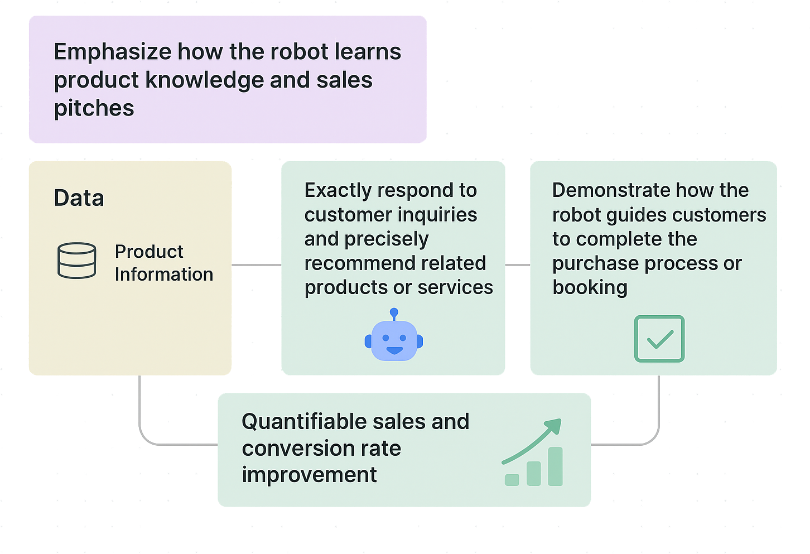
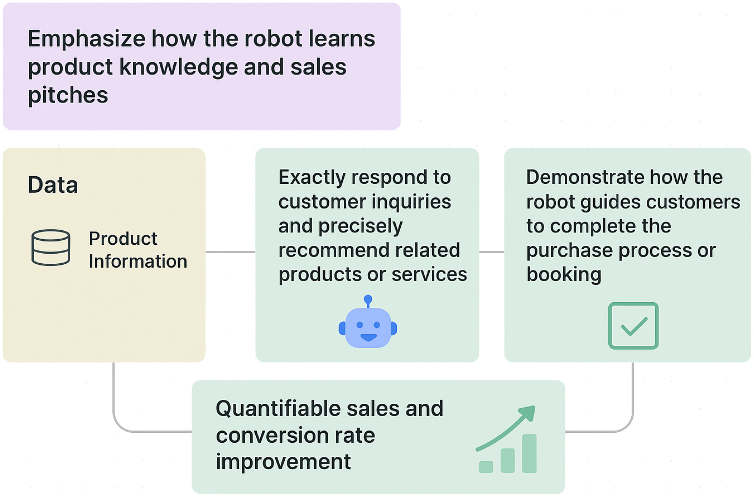
sherry 後台products新增 連結&開新分頁 功能 & media新增 篩選資料夾 功能

Changed region(s): [[0.0, 0.0, 1.0, 0.996]]

diff --git a/resources/views/livewire/pages/aiing.blade.php b/resources/views/livewire/pages/aiing.blade.php
@@ -107,16 +107,17 @@
 
     {{-- 業務DNA --}}
     <section class="text-gray-600 body-font bg-[#EBF0FE]">
-        <div class="max-w-[1600px] mx-auto px-5 py-24 lg:px-32 flex md:flex-row flex-col items-center justify-center gap-8">
+        <div class="max-w-[1600px] mx-auto px-5 py-40 lg:px-32 flex md:flex-row flex-col items-center justify-center gap-14">
             <div class="md:w-1/2 flex flex-col md:items-start md:text-left mb-16 md:mb-0 items-center text-center max-w-lg">
-                    <h2 class="title-font sm:text-3xl text-2xl mb-8 font-black text-gray-900 font-sans">深入您的業務DNA，打造最懂您的 AI 聊天機器人</h2>
-                    <p class="mb-20 leading-relaxed text-lg">將 AI 模型和技術整合到您的網站或雲端系統中，從需求分析、數據準備、模型訓練，提供完整的 AI 聊天應用解決方案s</p>
+                    <h2 class="title-font sm:text-3xl text-2xl mb-8 font-black text-gray-900">深入您的業務DNA，打造最懂您的 AI 聊天機器人</h2>
+                    <p class="mb-20 font-medium text-lg">將 AI 模型和技術整合到您的網站或雲端系統中，從需求分析、數據準備、模型訓練，提供完整的 AI 聊天應用解決方案s</p>
                     <div class="flex justify-center">
                         <button
                             class="inline-flex text-white bg-[#9BBF3E] rounded-full border-0 py-2 px-10 focus:outline-none hover:bg-[#8cb02f] text-lg">更多訊息</button>
                     </div>
             </div>
-            <div class="lg:max-w-lg lg:w-full md:w-1/2 w-5/6">
+            {{-- <div class="lg:max-w-lg lg:w-full md:w-1/2 w-5/6"> --}}
+            <div class="md:w-7/12 w-5/6">
                 <img class="object-cover object-center rounded" alt="hero" src="{{ asset('emphasize.png') }}" alt="">
             </div>
         </div>
@@ -126,7 +127,7 @@
     <section class="body-font bg-[#0D256D]">
         <div class="max-w-[1600px] mx-auto px-5 py-24 lg:px-32">
             <div class="">
-                <div class="max-w-xl mb-6 sm:mx-auto sm:text-center md:mb-10 lg:max-w-2xl">
+                <div class="max-w-lg mb-6 sm:mx-auto text-center md:mb-10 lg:max-w-xl">
                     <h2 class="text-white font-black mb-6 text-3xl">
                         可量化的商業價值
                     </h2>
@@ -135,20 +136,26 @@
                     </p>
                 </div>
                 <div class="grid gap-6 row-gap-5 lg:grid-cols-3">
-                    <div>
-                        <img class="object-cover w-full h-64 mb-6 rounded shadow-lg lg:h-80 xl:h-96"
-                            src="https://images.pexels.com/photos/3184311/pexels-photo-3184311.jpeg?auto=compress&amp;cs=tinysrgb&amp;dpr=2&amp;w=500"
-                            alt="" />
+                    <div class="bg-white p-6 rounded-xl shadow-lg">
+                        <h3 class="font-bold text-center mb-4">客服成本結構變化</h3>
+                        <div class="relative w-full h-[400px] max-h-[400px] mr-auto ml-auto">
+                            <canvas id="costChart"></canvas>
+                        </div>
+                        <p class="text-sm text-slate-600 mt-4 text-center">透過 AI 協同作業，大幅降低重複性問題的人力成本，讓人力專注於更高價值的客戶服務。</p>
                     </div>
-                    <div>
-                        <img class="object-cover w-full h-64 mb-6 rounded shadow-lg lg:h-80 xl:h-96"
-                            src="https://images.pexels.com/photos/3184338/pexels-photo-3184338.jpeg?auto=compress&amp;cs=tinysrgb&amp;dpr=2&amp;h=750&amp;w=1260"
-                            alt="" />
+                    <div class="bg-white p-6 rounded-xl shadow-lg">
+                        <h3 class="font-bold text-center mb-4">客戶互動渠道轉換率</h3>
+                        <div class="relative w-full h-[400px] max-h-[400px] mr-auto ml-auto">
+                            <canvas id="conversionChart"></canvas>
+                        </div>
+                        <p class="text-sm text-slate-600 mt-4 text-center">GPT Assistant 提供 24/7 即時、個人化的互動，有效提升訪客轉換為潛在客戶或完成購買的機率。</p>
                     </div>
-                    <div>
-                        <img class="object-cover w-full h-64 mb-6 rounded shadow-lg lg:h-80 xl:h-96"
-                            src="https://images.pexels.com/photos/3184339/pexels-photo-3184339.jpeg?auto=compress&amp;cs=tinysrgb&amp;dpr=2&amp;h=750&amp;w=1260"
-                            alt="" />
+                    <div class="bg-white p-6 rounded-xl shadow-lg md:col-span-2 lg:col-span-1">
+                        <h3 class="font-bold text-center mb-4">導入後月銷售額增長趨勢</h3>
+                        <div class="relative w-full h-[400px] max-h-[400px] mr-auto ml-auto">
+                            <canvas id="salesChart"></canvas>
+                        </div>
+                        <p class="text-sm text-slate-600 mt-4 text-center">智能推薦與不間斷的銷售引導，直接反映在持續上揚的月銷售額曲線上。</p>
                     </div>
                 </div>
             </div>
@@ -325,3 +332,170 @@
         </div>
     </footer>
 </div>
+
+@push('scripts')
+    <script src="https://cdn.jsdelivr.net/npm/chart.js"></script>
+    <script>
+        document.addEventListener('DOMContentLoaded', function () {
+
+            // Helper function for label wrapping
+            const wrapLabel = (label, maxLength = 16) => {
+                if (label.length <= maxLength) {
+                    return label;
+                }
+                const words = label.split(' ');
+                const lines = [];
+                let currentLine = '';
+                for (const word of words) {
+                    if ((currentLine + ' ' + word).length > maxLength && currentLine.length > 0) {
+                        lines.push(currentLine);
+                        currentLine = word;
+                    } else {
+                        if (currentLine.length > 0) {
+                            currentLine += ' ' + word;
+                        } else {
+                            currentLine = word;
+                        }
+                    }
+                }
+                lines.push(currentLine);
+                return lines;
+            };
+
+            // Shared tooltip configuration
+            const tooltipConfig = {
+                plugins: {
+                    tooltip: {
+                        callbacks: {
+                            title: function (tooltipItems) {
+                                const item = tooltipItems[0];
+                                let label = item.chart.data.labels[item.dataIndex];
+                                if (Array.isArray(label)) {
+                                    return label.join(' ');
+                                }
+                                return label;
+                            }
+                        }
+                    }
+                }
+            };
+
+            // Chart 1: Cost Structure Donut Chart
+            const costCtx = document.getElementById('costChart').getContext('2d');
+            new Chart(costCtx, {
+                type: 'doughnut',
+                data: {
+                    labels: ['人力成本', 'AI 系統與維護'],
+                    datasets: [{
+                        label: '導入前',
+                        data: [95, 5],
+                        backgroundColor: ['#118AB2', '#06D6A0'],
+                        borderColor: '#ffffff',
+                        borderWidth: 2,
+                    }, {
+                        label: '導入後',
+                        data: [60, 40],
+                        backgroundColor: ['#118AB2', '#06D6A0'],
+                        borderColor: '#ffffff',
+                        borderWidth: 2,
+                        hidden: true
+                    }]
+                },
+                options: {
+                    responsive: true,
+                    maintainAspectRatio: false,
+                    plugins: {
+                        ...tooltipConfig.plugins,
+                        legend: {
+                            position: 'top',
+                        },
+                        title: {
+                            display: true,
+                            text: '導入 AI 前後成本比較',
+                        }
+                    }
+                }
+            });
+
+            // Chart 2: Conversion Rate Bar Chart
+            const conversionCtx = document.getElementById('conversionChart').getContext('2d');
+            new Chart(conversionCtx, {
+                type: 'bar',
+                data: {
+                    labels: ['傳統線上客服', '電子郵件行銷', wrapLabel('GPT Assistants 智能助理')],
+                    datasets: [{
+                        label: '轉換率 (%)',
+                        data: [2.5, 1.8, 8.5],
+                        backgroundColor: [
+                            '#FFD166',
+                            '#118AB2',
+                            '#06D6A0'
+                        ],
+                        borderColor: [
+                            '#FFD166',
+                            '#118AB2',
+                            '#06D6A0'
+                        ],
+                        borderWidth: 1
+                    }]
+                },
+                options: {
+                    responsive: true,
+                    maintainAspectRatio: false,
+                    scales: {
+                        y: {
+                            beginAtZero: true,
+                            ticks: {
+                                callback: function (value) {
+                                    return value + '%'
+                                }
+                            }
+                        }
+                    },
+                    plugins: {
+                        ...tooltipConfig.plugins,
+                        legend: {
+                            display: false,
+                        },
+                    }
+                }
+            });
+
+            // Chart 3: Sales Growth Line Chart
+            const salesCtx = document.getElementById('salesChart').getContext('2d');
+            new Chart(salesCtx, {
+                type: 'line',
+                data: {
+                    labels: ['第一月', '第二月', '第三月', '第四月', '第五月', '第六月'],
+                    datasets: [{
+                        label: '導入後月銷售額 (萬元)',
+                        data: [120, 135, 160, 185, 220, 250],
+                        fill: true,
+                        backgroundColor: 'rgba(6, 214, 160, 0.2)',
+                        borderColor: '#06D6A0',
+                        tension: 0.3
+                    },
+                    {
+                        label: '導入前平均月銷售額 (萬元)',
+                        data: [115, 115, 115, 115, 115, 115],
+                        fill: false,
+                        borderColor: '#FF6B6B',
+                        borderDash: [5, 5],
+                    }]
+                },
+                options: {
+                    responsive: true,
+                    maintainAspectRatio: false,
+                    scales: {
+                        y: {
+                            beginAtZero: false
+                        }
+                    },
+                    plugins: {
+                        ...tooltipConfig.plugins,
+                    }
+                }
+            });
+        });
+    </script>
+@endpush

diff --git a/resources/views/livewire/pages/home.blade.php b/resources/views/livewire/pages/home.blade.php
@@ -177,7 +177,7 @@
     <section class="text-gray-600 body-font">
         <div class="max-w-[1280px] px-5 py-24 mx-auto flex flex-wrap flex-col">
             <h2 class="text-center title-font sm:text-4xl text-3xl mb-20 font-black text-gray-800 font-sans">近期作品</h2>
-            <div class="flex items-center justify-between mb-14">
+            <div class="flex items-center justify-center mb-14">
                 <div class="flex items-center text-lg">
                     @if($this->activeTab == 'all')
                     <button wire:click="switchTab('all')"
@@ -248,28 +248,29 @@
             </div> --}}
             <div class="flex flex-wrap -m-4 px-5">
                 @foreach ($works as $work)
-                                    <div class="p-2 md:w-1/3">
-                                        <div class="h-full shadow-md border-2 border-gray-200 border-opacity-60 rounded-2xl overflow-hidden">
-                                            @php
-    $image = $work->images->first(); // 取第一張圖片
-                                            @endphp
-                                            @if ($image)
-                                                <img class="h-72 w-full object-cover object-center" src="{{ $image->url }}" alt="blog">
-                                            @else
-                                                <img class="h-72 w-full object-cover object-center" src="{{ asset('storage/media/sidebar-links_3.png') }}" alt="blog">
-                                            @endif
-                                            <div class="p-6">
-                                                <p class="border-gray-400 text-center border rounded-md max-w-[46px] tracking-widest text-sm title-font font-medium text-gray-400 mb-1">
-                                                    {{ $work->product_category->first()?->title }}</p>
-                                                    {{-- {{ $work->menu->title }}</p> --}}
-                                                <p class="title-font text-lg font-extrabold text-gray-900 mt-3 mb-7">{{ $work->title }}</p>
-                                                <div class="flex items-center flex-wrap ">
-                                                    <a class=" inline-flex items-center md:mb-2 lg:mb-0">觀看網站 ➔
-                                                    </a>
-                                                </div>
-                                            </div>
-                                        </div>
-                                    </div>
+                                                                                                    <div class="p-2 md:w-1/3">
+                                                                                                        <div class="h-full shadow-md border-2 border-gray-200 border-opacity-60 rounded-2xl overflow-hidden">
+                                                                                                            @php
+                    $image = $work->images->first(); // 取第一張圖片
+                                                                                                            @endphp
+                                                                                                            @if ($image)
+                                                                                                                <img class="h-72 w-full object-cover object-center" src="{{ $image->url }}" alt="blog">
+                                                                                                            @else
+                                                                                                                <img class="h-72 w-full object-cover object-center" src="{{ asset('storage/media/sidebar-links_3.png') }}" alt="blog">
+                                                                                                            @endif
+                                                                                                            <div class="p-6">
+                                                                                                                <p class="border-gray-400 text-center border rounded-md max-w-[80px] tracking-widest text-sm title-font font-medium text-gray-400 mb-1">
+                                                                                                                    {{ $work->product_category->first()?->title }}</p>
+                                                                                                                    {{-- {{ $work->menu->title }}</p> --}}
+                                                                                                                <p class="title-font text-lg font-extrabold text-gray-900 mt-3 mb-7">{{ $work->title }}</p>
+                                                                                                                <div class="flex items-center flex-wrap ">
+                                                                                                                    <a class=" inline-flex items-center md:mb-2 lg:mb-0" href="{{ $work->url }}" @if($this->openNewTab($work)) target="{{ $this->openNewTab($work) }}" @endif">
+                                                                                                                        觀看網站 ➔
+                                                                                                                    </a>
+                                                                                                                </div>
+                                                                                                            </div>
+                                                                                                        </div>
+                                                                                                    </div>
                 @endforeach
                 {{-- <div class="p-2 md:w-1/3">
                     <div class="h-full shadow-md border-2 border-gray-200 border-opacity-60 rounded-2xl overflow-hidden">

diff --git a/app/Filament/Resources/ProductResource.php b/app/Filament/Resources/ProductResource.php
@@ -48,7 +48,7 @@ class ProductResource extends Resource
     public static function resolveRecordRouteBinding($key): ?\Illuminate\Database\Eloquent\Model
     {
         $locale = app()->getLocale();
-        
+
         return static::getModel()::where('slug', $key)
             ->where('locale', $locale)
             ->first();
@@ -142,6 +142,13 @@ class ProductResource extends Resource
                                             })
                                         );
                                     }),
+                                Forms\Components\TextInput::make('url')
+                                    ->label('連結')
+                                    ->placeholder('https://example.com')
+                                    ->helperText('設定文章跳轉網址，留空則無跳轉'),
+                                Forms\Components\Toggle::make('url_target')
+                                    ->label('開新分頁')
+                                    ->helperText('勾選後，連結會在新分頁開啟'),
                             ]),
                     ])
                     ->columnSpan(['lg' => 1]),
@@ -156,7 +163,7 @@ class ProductResource extends Resource
             ->modifyQueryUsing(function ($query) {
                 $locale = app()->getLocale();
                 $routeLocale = request()->route('locale');
-                
+
                 // 如果是 Livewire 請求，從 referer 中提取語言
                 if (!$routeLocale && request()->header('Referer')) {
                     $refererPath = parse_url(request()->header('Referer'), PHP_URL_PATH);
@@ -164,9 +171,9 @@ class ProductResource extends Resource
                         $routeLocale = $matches[1];
                     }
                 }
-                
+
                 $actualLocale = $routeLocale ?: $locale;
-                
+
                 \Illuminate\Support\Facades\Log::info('ProductResource table query:', [
                     'app_locale' => $locale,
                     'route_locale' => $routeLocale,

diff --git a/app/Livewire/Pages/Home.php b/app/Livewire/Pages/Home.php
@@ -54,6 +54,11 @@ class Home extends Component
         $this->loadNews();
     }
 
+    public function openNewTab($work)
+    {
+        return $work->url_target == 1 ? '_blank' : '';
+    }
+
     protected function loadPosts()
     {
         $query = ProductModel::where('locale', app()->getLocale())

diff --git a/resources/views/components/layouts/app.blade.php b/resources/views/components/layouts/app.blade.php
@@ -35,5 +35,6 @@
                 {{ $slot }}
             </main>
         </div>
+        @stack('scripts')
     </body>
 </html>
